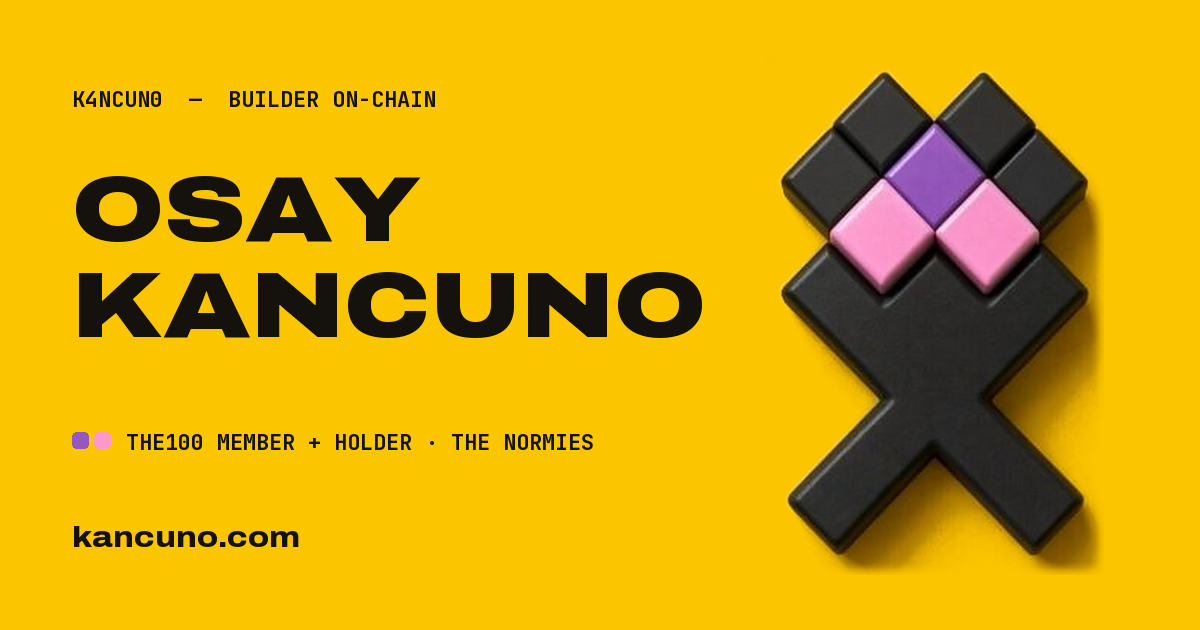
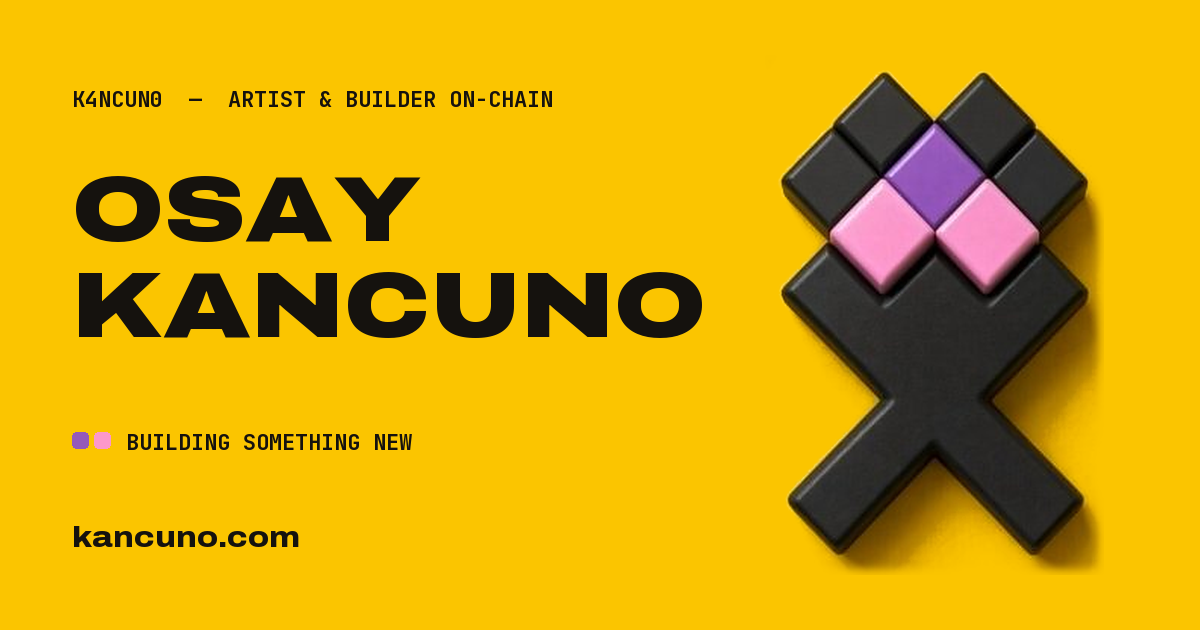
Keep the focus on Osay as artist and builder
- Share link (title, og/twitter description, og.png text and alt) is about
  Osay only: artist and builder on-chain, no community names
- Search description and JSON-LD Person lead with him (jobTitle, knowsAbout,
  alternateName); communities stay as secondary nodes
- Hero eyebrow, Profile heading, bio and tags reframed around him; NFC chip
  moved off the Profile card (still in the drawer)
- Works heading becomes "Selected works"
- sr-only summary and llms.txt lead with him, communities listed as context

Changed region(s): [[0.185, 0.1206, 0.4625, 0.181], [0.0925, 0.6635, 0.3392, 0.7238], [0.37, 0.6635, 0.4933, 0.7238]]

diff --git a/src/app/layout.tsx b/src/app/layout.tsx
@@ -9,12 +9,16 @@ const archivo = Archivo({ subsets: ['latin'], axes: ['wdth'], variable: '--font-
 const mono = JetBrains_Mono({ subsets: ['latin'], variable: '--font-jbmono', display: 'swap' })
 
 const SITE = 'https://www.kancuno.com'
-const TITLE = 'Osay Kancuno — Builder On-Chain · K4NCUN0'
+// Share link and search copy are about Osay only: no community names here
+// (communities stay as context in the chapters, JSON-LD nodes and llms.txt).
+const TITLE = 'Osay Kancuno (K4NCUN0) · Artist & Builder On-Chain'
+const SHARE_DESCRIPTION =
+  'Osay Kancuno (K4NCUN0) is an artist and builder on-chain, working on something new. ' +
+  'On-chain work, off-chain experiences.'
 const DESCRIPTION =
-  'Osay Kancuno (K4NCUN0, @OsayKancuno) is an on-chain builder, currently building something new. ' +
-  'Member and holder of THE100 in The Normies (Normie #8362). ' +
-  'JPEG Frens holder, creator of The Frens Forge and FRENS AFTER DARK; on the wall at NFC Summit 2027. ' +
-  'Founder of Normies Yacht Club and 8362 Coffee.'
+  'Osay Kancuno (K4NCUN0, @OsayKancuno) is an artist and builder on-chain, currently building something new. ' +
+  'Games, tools, frameworks and video: on-chain work, off-chain experiences.'
+const IMAGE_ALT = 'Osay Kancuno (K4NCUN0), artist and builder on-chain, with the K4NCUN0 logo'
 
 export const metadata: Metadata = {
   metadataBase: new URL(SITE),
@@ -24,9 +28,10 @@ export const metadata: Metadata = {
   authors: [{ name: 'Osay Kancuno', url: SITE }],
   creator: 'Osay Kancuno',
   keywords: [
-    'Osay Kancuno', 'K4NCUN0', 'Kancuno',
-    'The Normies', 'THE100', 'Normies THE100', 'Normie #8362', 'on-chain builder', 'on-chain NFT',
-    'pixel art NFT', 'Normies Yacht Club', '8362 Coffee',
+    'Osay Kancuno', 'K4NCUN0', 'Kancuno', '@OsayKancuno',
+    'artist on-chain', 'on-chain artist', 'on-chain builder', 'on-chain art', 'pixel art',
+    // secondary context
+    'Normies Yacht Club', '8362 Coffee', 'The Normies', 'THE100', 'Normie #8362',
     'JPEG Frens', 'The Frens Forge', 'The Wall Arcade', 'FRENS AFTER DARK', 'NFC Summit', 'NFC 2027', 'NFC Summit Lisbon', 'On the Wall',
   ],
   alternates: { canonical: '/' },
@@ -36,16 +41,16 @@ export const metadata: Metadata = {
     url: SITE,
     siteName: 'Osay Kancuno',
     title: TITLE,
-    description: DESCRIPTION,
-    images: [{ url: '/og.png', width: 1200, height: 630, alt: 'Osay Kancuno (K4NCUN0), builder on-chain, with the K4NCUN0 logo' }],
+    description: SHARE_DESCRIPTION,
+    images: [{ url: '/og.png', width: 1200, height: 630, alt: IMAGE_ALT }],
   },
   twitter: {
     card: 'summary_large_image',
     site: '@OsayKancuno',
     creator: '@OsayKancuno',
     title: TITLE,
-    description: DESCRIPTION,
-    images: [{ url: '/og.png', alt: 'Osay Kancuno (K4NCUN0), builder on-chain, with the K4NCUN0 logo' }],
+    description: SHARE_DESCRIPTION,
+    images: [{ url: '/og.png', alt: IMAGE_ALT }],
   },
 }
 
@@ -64,10 +69,10 @@ const JSON_LD = {
       '@type': 'Person',
       '@id': PERSON_ID,
       name: 'Osay Kancuno',
-      alternateName: ['K4NCUN0', 'Kancuno', '@OsayKancuno', 'osaykancuno', 'Normie #8362'],
+      alternateName: ['K4NCUN0', 'Kancuno', '@OsayKancuno', 'osaykancuno'],
       url: SITE,
       image: `${SITE}/kancuno-logo.png`,
-      jobTitle: 'On-chain builder',
+      jobTitle: 'Artist and builder on-chain',
       description: DESCRIPTION,
       memberOf: [
         {
@@ -78,7 +83,7 @@ const JSON_LD = {
         },
         { '@id': `${SITE}/#jpegfrens` },
       ],
-      knowsAbout: ['The Normies', 'JPEG Frens', 'On-chain NFT art', 'Pixel art', 'Vibecoding', 'Web3 community tools'],
+      knowsAbout: ['On-chain art', 'Pixel art', 'On-chain building', 'Web3 community tools'],
       sameAs: ['https://x.com/OsayKancuno', 'https://t.me/kancuno', 'https://onthewall.nfcsummit.com/people/k4ncun0'],
       subjectOf: {
         '@type': 'WebPage',

diff --git a/src/components/experience/Chapters.tsx b/src/components/experience/Chapters.tsx
@@ -1,7 +1,7 @@
 import BuildTeaser from '../BuildTeaser'
 import Sentences from './Sentences'
 import {
-  BOOA_TOOLS, CHAPTER_LABELS, LINKS, NORMIE_TOOLS, ON_THE_WALL, PROFILE, WORKS,
+  BOOA_TOOLS, CHAPTER_LABELS, LINKS, NORMIE_TOOLS, PROFILE, WORKS,
 } from './content'
 
 export type DrawerKey = 'profile' | 'works' | 'community'
@@ -30,7 +30,7 @@ export function HeroChapter() {
   return (
     <div className="k-hero">
       <p className="k-eyebrow k-reveal" style={{ ['--d' as string]: '0.05s' }}>
-        Builder on-chain — THE100 member + holder · The Normies
+        Artist &amp; builder on-chain
       </p>
       <h2 className="k-title" tabIndex={-1}>
         <span className="k-line"><span style={{ ['--d' as string]: '0.1s' }}>Osay</span></span>
@@ -52,7 +52,7 @@ export function ProfileChapter({ onOpen }: ChapterProps) {
   return (
     <div className="k-card">
       <Index n={1} />
-      <h2 className="k-h2" tabIndex={-1}>Builder<br />on-chain.</h2>
+      <h2 className="k-h2" tabIndex={-1}>Artist &amp;<br />builder.</h2>
       <p className="k-mono-line k-tall-only">{PROFILE.handle} · {PROFILE.tagline}</p>
       <p className="k-body"><Sentences text={PROFILE.bio} /></p>
       <blockquote className="k-quote k-hide-sm k-mid-only">{PROFILE.quote}</blockquote>
@@ -64,10 +64,6 @@ export function ProfileChapter({ onOpen }: ChapterProps) {
           </a>
         ))}
       </div>
-      <a className="k-wall k-hide-sm" href={ON_THE_WALL.url} target="_blank" rel="noopener noreferrer">
-        <span className="k-wall-dot" aria-hidden="true" />
-        {ON_THE_WALL.short} · Panel #33 <Arrow />
-      </a>
       <div className="k-actions">
         <a className="k-btn" href={LINKS.x} target="_blank" rel="noopener noreferrer">Twitter / X <Arrow /></a>
         <button type="button" className="k-btn k-btn--ghost" onClick={() => onOpen('profile')}>Full profile</button>
@@ -81,9 +77,9 @@ export function WorksChapter({ onOpen }: ChapterProps) {
   return (
     <div className="k-card">
       <Index n={2} />
-      <h2 className="k-h2 k-h2--long" tabIndex={-1}>Built for the<br />communities.</h2>
+      <h2 className="k-h2" tabIndex={-1}>Selected<br />works.</h2>
       <p className="k-body">
-        Tributes, frameworks, tools and video, by {PROFILE.handle}.<br />
+        Games, tools, frameworks and video, by {PROFILE.handle}.<br />
         More on the way: new projects in progress.
       </p>
       <ul className="k-list k-hide-sm">

diff --git a/src/app/page.tsx b/src/app/page.tsx
@@ -6,9 +6,10 @@ export default function Home() {
       {/* Plain-text summary for screen readers, search engines and AI crawlers:
           the 3D experience shows one chapter at a time. */}
       <section className="sr-only" aria-label="Summary">
-        <h1>Osay Kancuno, builder on-chain</h1>
+        <h1>Osay Kancuno (K4NCUN0), artist and builder on-chain</h1>
         <p>
-          Osay Kancuno (K4NCUN0, @OsayKancuno on X) is an on-chain builder, currently building something new.
+          Osay Kancuno (K4NCUN0, @OsayKancuno on X) is an artist and builder on-chain, currently building something new.
+          His work spans games, tools, frameworks and video, including projects for communities he belongs to.
         </p>
         <p>
           Osay Kancuno is a member and holder of THE100 in The Normies community,

diff --git a/src/components/experience/content.ts b/src/components/experience/content.ts
@@ -17,9 +17,9 @@ export const CHAPTER_LABELS = ['Intro', 'Profile', 'Works', 'Community', 'Contac
 export const PROFILE = {
   handle: '@osaykancuno',
   tagline: 'On-chain vibecoding → off-chain experiences',
-  bio: 'Builder on-chain, working on something new. Member and holder of THE100 in The Normies. We will change the world one pixel at a time.',
+  bio: 'Artist and builder on-chain, working on something new. We will change the world one pixel at a time.',
   quote: 'Culture belongs to the people who create it.',
-  tags: ['Builder on-chain', 'THE100 holder', 'Normie #8362', 'On the wall · NFC 2027'],
+  tags: ['Artist', 'Builder on-chain', 'K4NCUN0'],
   founderOf: [
     { label: 'Normies Yacht Club', href: LINKS.yachtClub },
     { label: '8362 Coffee', href: LINKS.coffee },

diff --git a/src/components/experience/Drawer.tsx b/src/components/experience/Drawer.tsx
@@ -71,7 +71,7 @@ function Body({ k }: { k: DrawerKey }) {
   if (k === 'works') {
     return (
       <>
-        <p className="k-dlead">Built for the communities — by {PROFILE.handle}.</p>
+        <p className="k-dlead">Selected works by {PROFILE.handle}.</p>
         <WorkList items={WORKS} />
         <h3 className="k-dsection">Studio collaboration</h3>
         <p className="k-dtext">{BOOA_NOTE}<br />Tools built for this community:</p>

diff --git a/src/app/globals.css b/src/app/globals.css
@@ -487,7 +487,6 @@ ul { list-style: none; }
   text-transform: uppercase;
   margin-bottom: 22px;
 }
-.k-h2--long { font-size: clamp(34px, min(3.7vw, 6.8vh), 64px); }
 .k-h2--fit { font-size: clamp(32px, min(3.4vw, 6.4vh), 60px); }
 .k-h2,
 .k-title,

diff --git a/scripts/brand-assets.py b/scripts/brand-assets.py
@@ -139,7 +139,7 @@ def write_og():
     d = ImageDraw.Draw(img)
     x0 = 72
     mono = font('mono', 22, 700)
-    d.text((x0, 84), 'K4NCUN0  —  BUILDER ON-CHAIN', font=mono, fill=INK)
+    d.text((x0, 84), 'K4NCUN0  —  ARTIST & BUILDER ON-CHAIN', font=mono, fill=INK)
 
     big = font('display', 92)
     d.text((x0, 160), 'OSAY', font=big, fill=INK)
@@ -150,7 +150,7 @@ def write_og():
     d.rounded_rectangle((x0, 432, x0 + sq, 432 + sq), radius=4, fill=PURPLE)
     d.rounded_rectangle((x0 + sq + 6, 432, x0 + 2 * sq + 6, 432 + sq), radius=4, fill=PINK)
     small = font('mono', 22, 700)
-    d.text((x0 + 2 * sq + 22, 427), 'THE100 MEMBER + HOLDER · THE NORMIES', font=small, fill=INK)
+    d.text((x0 + 2 * sq + 22, 427), 'BUILDING SOMETHING NEW', font=small, fill=INK)
 
     url = font('display', 30, 800, 112)
     d.text((x0, 520), 'kancuno.com', font=url, fill=INK)
